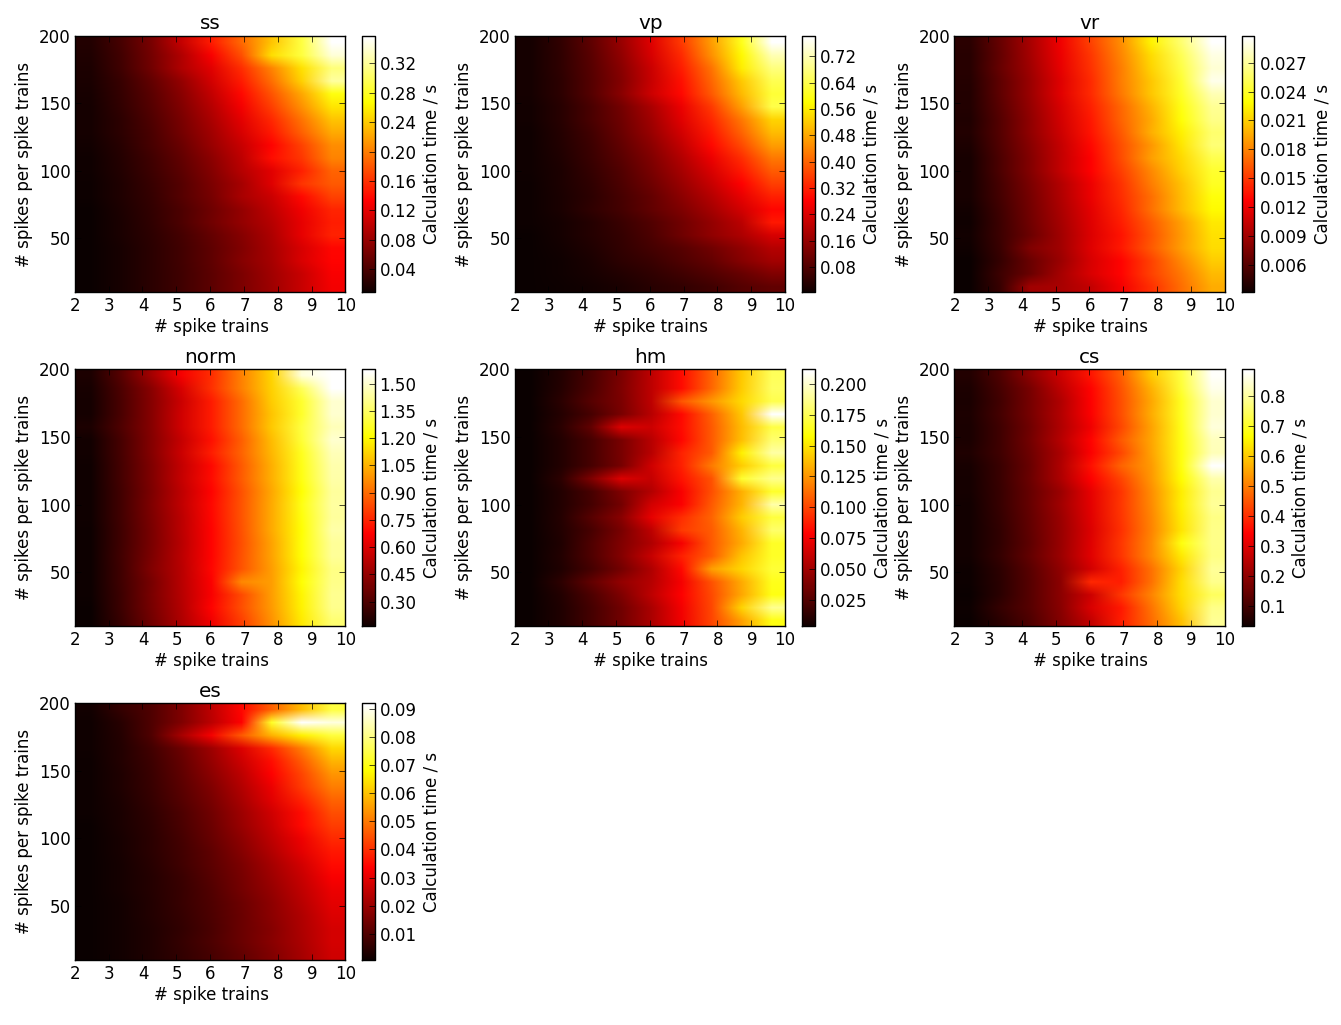
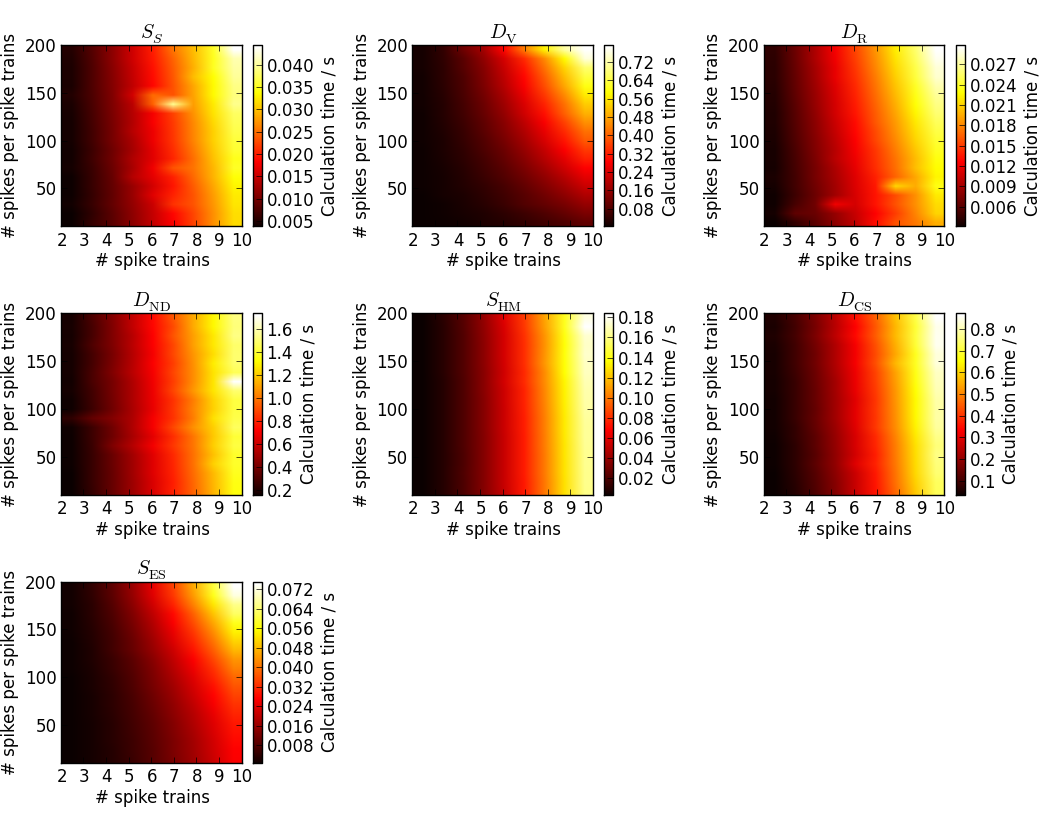
Update of benchmarks.

diff --git a/spykeutils/profiling/benchmark_spike_train_metrics.py b/spykeutils/profiling/benchmark_spike_train_metrics.py
@@ -18,22 +18,22 @@ sampling_rate = 1000 * pq.Hz
 
 
 metrics = {
-    'cs': ('Cauchy-Schwarz distance',
+    'cs': (r'$D_{\mathrm{CS}}$',
            lambda trains: stm.cs_dist(
                trains, sigproc.CausalDecayingExpKernel(tau), sampling_rate)),
-    'es': ('event synchronization',
+    'es': (r'$S_{\mathrm{ES}}$',
            lambda trains: stm.event_synchronization(trains, tau, sort=False)),
-    'hm': ('Hunter-Milton similarity measure',
+    'hm': (r'$S_{\mathrm{HM}}$',
            lambda trains: stm.hunter_milton_similarity(trains, tau)),
-    'norm': ('norm distance',
+    'norm': (r'$D_{\mathrm{ND}}$',
              lambda trains: stm.norm_dist(
                  trains, sigproc.CausalDecayingExpKernel(tau), sampling_rate)),
-    'ss': ('Schreiber et al. similarity measure',
+    'ss': (r'$S_{S}}$',
            lambda trains: stm.schreiber_similarity(
-               trains, sigproc.GaussianKernel(tau), sort=False)),
-    'vr': ('van Rossum distance',
+               trains, sigproc.LaplacianKernel(tau), sort=False)),
+    'vr': (r'$D_{\mathrm{R}}$',
            lambda trains: stm.van_rossum_dist(trains, tau, sort=False)),
-    'vp': ('Victor-Purpura\'s distance',
+    'vp': (r'$D_{\mathrm{V}}$',
            lambda trains: stm.victor_purpura_dist(trains, 2.0 / tau))}
 
 
@@ -95,7 +95,7 @@ class Benchmark(object):
         for i, m in enumerate(self.results):
             plt.subplot(rows, cols, i + 1)
             self.plot_times(self.results[m])
-            plt.title(m)
+            plt.title(metrics[m][0])
 
 
 if __name__ == '__main__':

diff --git a/spykeutils/profiling/benchmark_multiunit_metrics.py b/spykeutils/profiling/benchmark_multiunit_metrics.py
@@ -23,10 +23,10 @@ def trains_as_multiunits(trains, trains_per_unit, num_units):
 
 
 metrics = {
-    'vp': ('Victor Purpursa\'s distance',
+    'vp': (r'$D_{\mathrm{V}}$ (multi-unit)',
            lambda units: stm.victor_purpura_multiunit_dist(
                units, 0.7, 2.0 / tau)),
-    'vr': ('van Rossum distance',
+    'vr': (r'$D_{\mathrm{R}}$ (multi-unit)',
            lambda units: stm.van_rossum_multiunit_dist(units, 0.5, tau))}
 
 
@@ -98,7 +98,7 @@ class Benchmark(object):
                 plt.subplot(rows, cols, i + j * cols + 1)
                 self.plot_times(self.results[m][j])
                 if j <= 0:
-                    plt.title(m)
+                    plt.title(metrics[m][0])
                 if i <= 0:
                     plt.figtext(
                         0.02, 1 - 0.9 / rows * j - 0.1, "%i units" % u,
